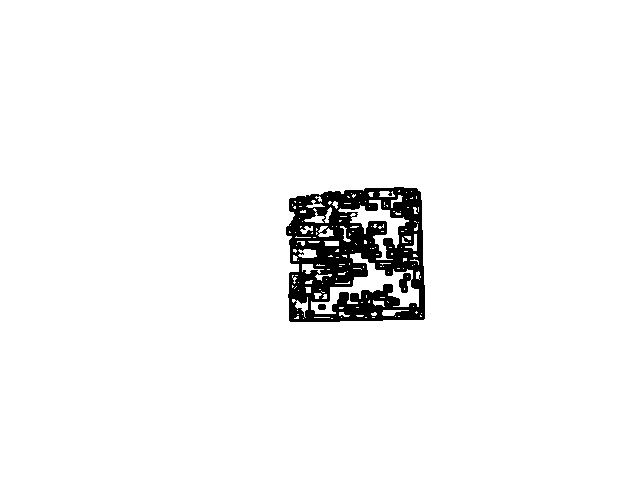
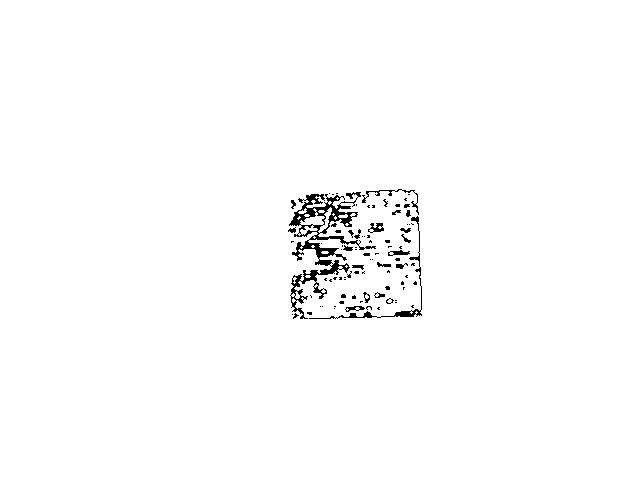
updated bounding alto

Changed region(s): [[0.4375, 0.375, 0.6875, 0.6875]]

diff --git a/src/cell.py b/src/cell.py
@@ -18,21 +18,17 @@ def mask(img):
   kernel = cv2.getStructuringElement(cv2.MORPH_ELLIPSE,(3,3))
   res = cv2.morphologyEx(blk,cv2.MORPH_OPEN,kernel)
   ret,thresh = cv2.threshold(res,127,255,0)
-  contours, hierarchy = cv2.findContours(thresh,cv2.RETR_CCOMP,cv2.CHAIN_APPROX_SIMPLE)
+  contours, hierarchy = cv2.findContours(thresh,cv2.RETR_TREE,cv2.CHAIN_APPROX_SIMPLE)
+  dest = np.zeros(thresh.shape, np.uint8)
   for cnt in contours:
-    area = cv2.contourArea(cnt)
-    if area < 1000:  # 303849 the largest upper bound thats not the whole frame
-      peri = cv2.arcLength(cnt, True)
-      approx = cv2.approxPolyDP(cnt, peri, True)
-      if area > max_area and len(approx)==4:
-      	biggest = approx
-      	max_area = area
-      x,y,w,h = cv2.boundingRect(cnt)
-      cv2.rectangle(res, (x,y),(x+w,y+h),(0,255,0),2)
-      #cv2.drawContours(res,[cnt],0,(20,130,50),-1)
-  cv2.imshow('contour-highlighted image.jpg', res )
+    rect  = cv2.minAreaRect(cnt)
+    points = cv2.cv.BoxPoints(rect)
+    points  = np.int0(np.around(points))
+    cv2.drawContours(dest, [cnt],0,(0,255,0),2)
+    cv2.polylines(dest, [points], True,(255,0,0),2 )
+  cv2.imshow('contour-highlighted image.jpg', dest )
   cv2.imwrite("../images/bound.jpg", res)
-  cv2.imshow('edges', blk)
+  cv2.imshow('edges', thresh)
 if __name__ == '__main__':
   mask(frame)	
   if cv2.waitKey(0) & 0xff == 27:  #escape

diff --git a/src/thresholding.py b/src/thresholding.py
@@ -17,6 +17,7 @@ def threshold(z):
   mrgd = cv2.merge([hue, sat, val])    #threshold for just the black square
   bgr = cv2.cvtColor(mrgd, cv2.COLOR_HSV2BGR)
   gray = cv2.cvtColor(bgr, cv2.COLOR_BGR2GRAY)
+  blur = cv2.GaussianBlur(gray, (5,5), 0)
   mask = ors.cntr(gray)
   edges = cv2.Canny(mask,100,200)
   cv2.imshow('mask',edges)
